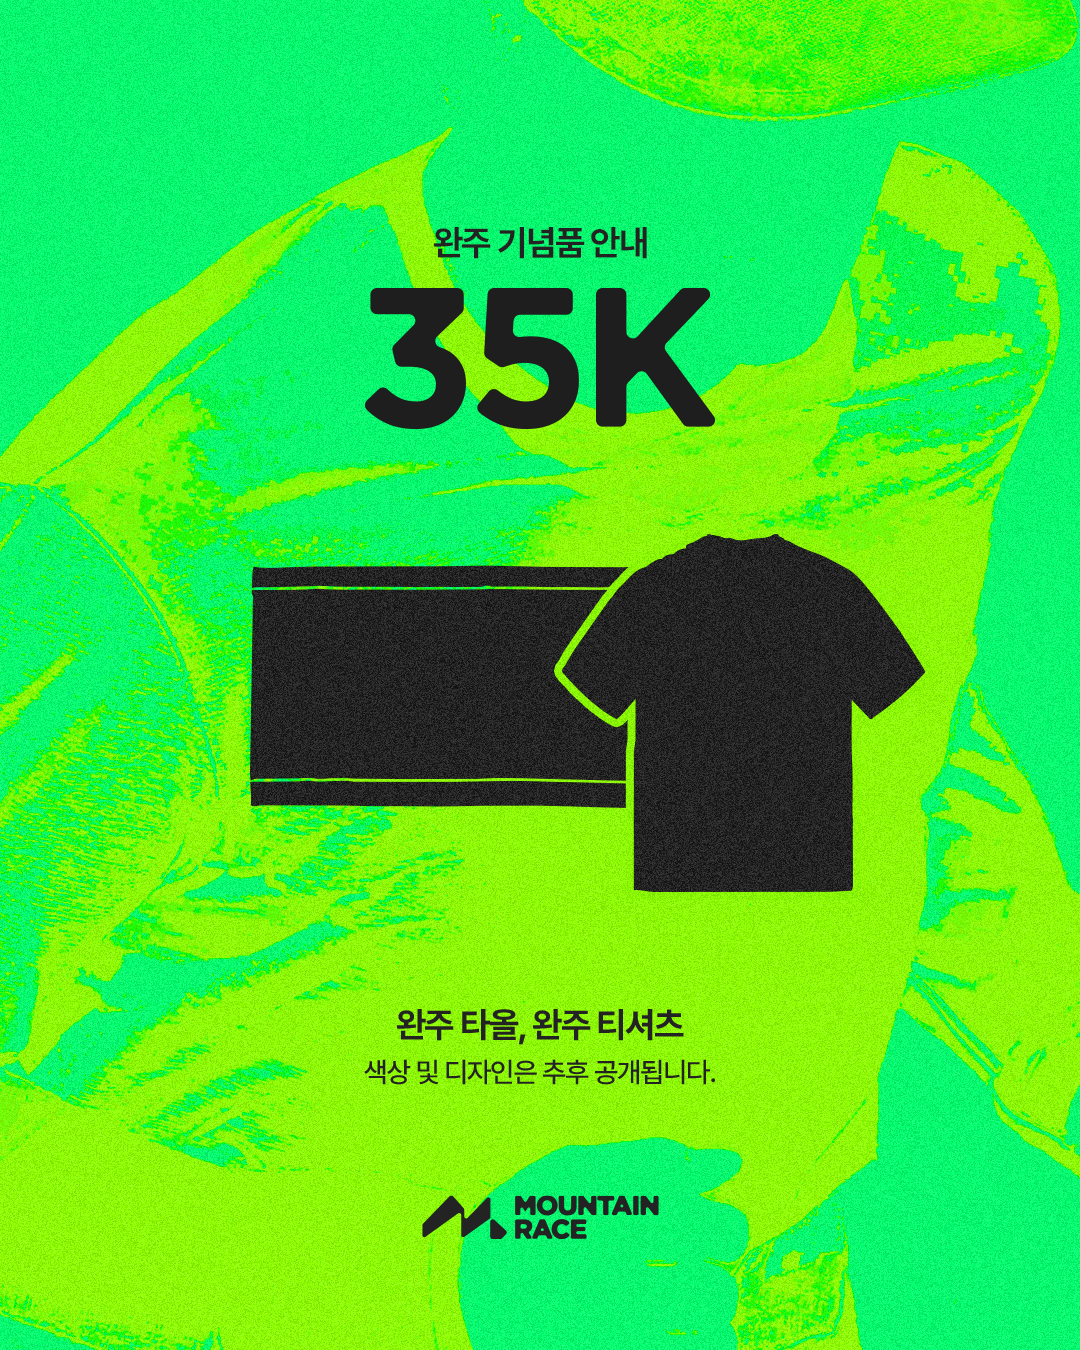
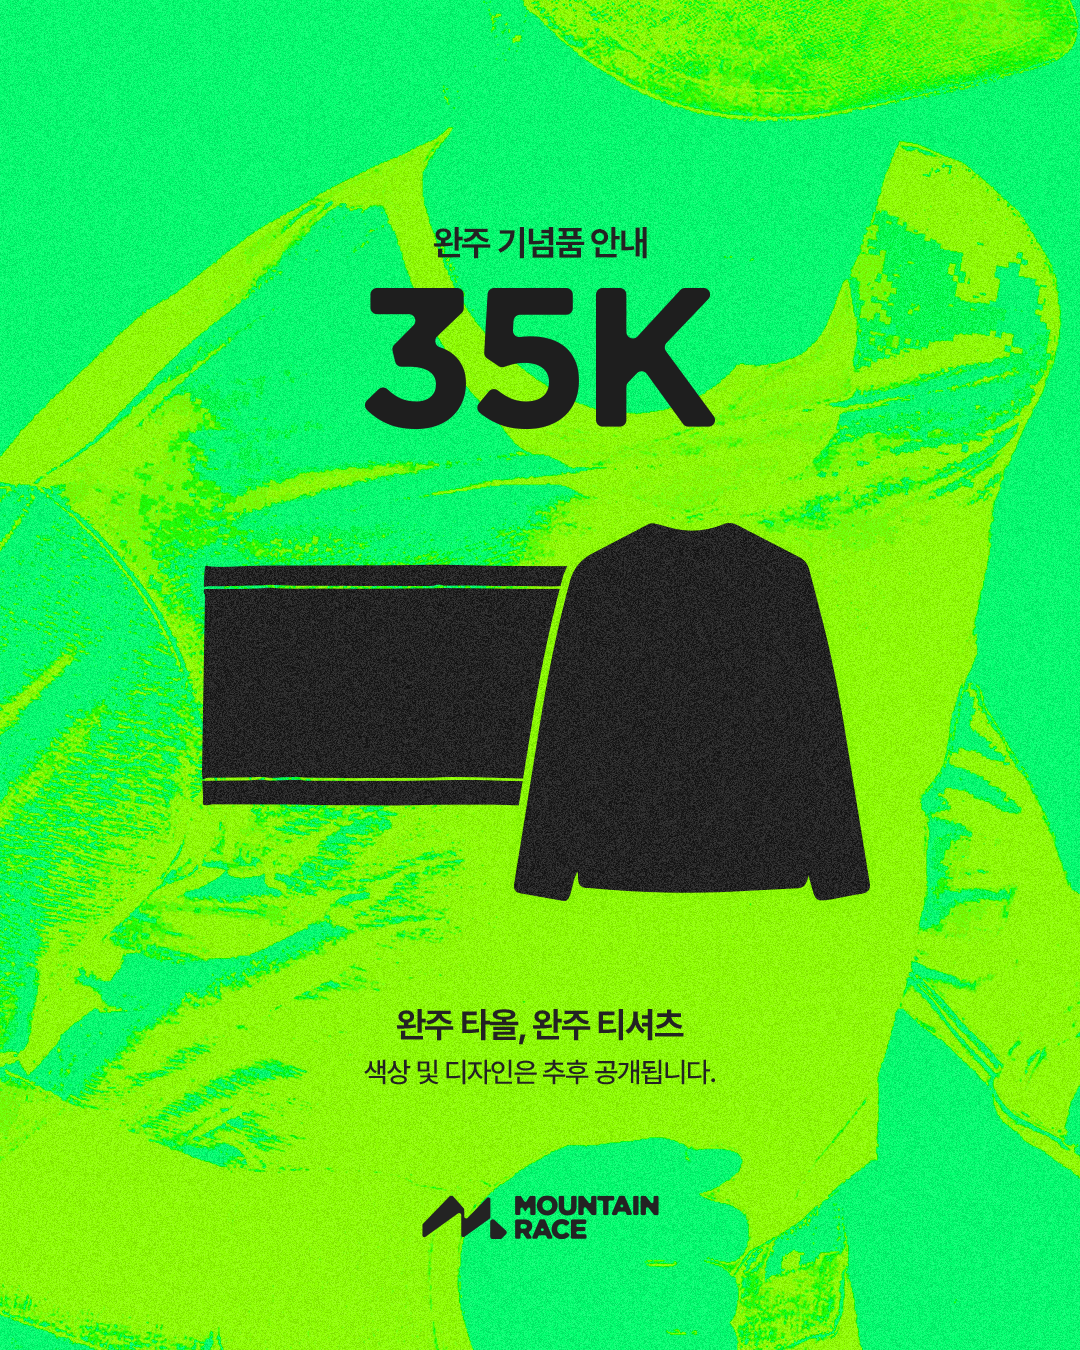
fix: 완주 기념 섹션 이미지 크기 수정

Changed region(s): [[0.1833, 0.3733, 0.8556, 0.6844]]

diff --git a/15k-team.html b/15k-team.html
@@ -1317,20 +1317,19 @@
       </div>
     </div>
 
+    <!-- 완주 기념품 -->
+    <div class="pkg-block" style="margin-top:32px;">
+      <div class="pkg-block-label">완주 기념품</div>
+      <img src="https://miso-kim.github.io/mountainrace/Images/15k-gift.png" alt="15K 완주 기념품" style="width:100%; max-width:400px; height:auto; display:block;">
+    </div>
+
+
     <!-- 완주 메달 -->
     <div class="pkg-block">
       <div class="pkg-block-label">완주 메달</div>
       <div class="pkg-placeholder">
-        <img src="https://cdn.imweb.me/upload/S202602111e47a452310e3/12505bd0f627f.jpg" alt="완주 메달" style="width:100%; height:auto; display:block; max-width:400px;">
+        <img src="https://cdn.imweb.me/upload/S202602111e47a452310e3/12505bd0f627f.jpg" alt="완주 메달" style="width:100%; height:auto; display:block;">
       </div>
-    </div>
-
-    <!-- 완주 기념품 -->
-    <div class="pkg-block" style="margin-top:32px;">
-      <div class="pkg-block-label">완주 기념품</div>
-      <img src="https://miso-kim.github.io/mountainrace/Images/15k-gift.png"
-           alt="15K 완주 기념품"
-           style="width:100%; height:auto; display:block;">
     </div>
   </div>
 </section>

diff --git a/15k.html b/15k.html
@@ -1249,20 +1249,19 @@
       </div>
     </div>
 
+    <!-- 완주 기념품 -->
+    <div class="pkg-block" style="margin-top:32px;">
+      <div class="pkg-block-label">완주 기념품</div>
+      <img src="https://miso-kim.github.io/mountainrace/Images/15k-gift.png" alt="15K 완주 기념품" style="width:100%; max-width:400px; height:auto; display:block;">
+    </div>
+
+
     <!-- 완주 메달 -->
     <div class="pkg-block">
       <div class="pkg-block-label">완주 메달</div>
       <div class="pkg-placeholder">
-        <img src="https://cdn.imweb.me/upload/S202602111e47a452310e3/12505bd0f627f.jpg" alt="완주 메달" style="width:100%; height:auto; display:block; max-width:400px;">
+        <img src="https://cdn.imweb.me/upload/S202602111e47a452310e3/12505bd0f627f.jpg" alt="완주 메달" style="width:100%; height:auto; display:block;">
       </div>
-    </div>
-
-    <!-- 완주 기념품 -->
-    <div class="pkg-block" style="margin-top:32px;">
-      <div class="pkg-block-label">완주 기념품</div>
-      <img src="https://miso-kim.github.io/mountainrace/Images/15k-gift.png"
-           alt="15K 완주 기념품"
-           style="width:100%; height:auto; display:block;">
     </div>
   </div>
 </section>

diff --git a/35k.html b/35k.html
@@ -1228,20 +1228,19 @@
       </div>
     </div>
 
+    <!-- 완주 기념품 -->
+    <div class="pkg-block" style="margin-top:32px;">
+      <div class="pkg-block-label">완주 기념품</div>
+      <img src="https://miso-kim.github.io/mountainrace/Images/35k-gift.png" alt="35K 완주 기념품" style="width:100%; max-width:400px; height:auto; display:block;">
+    </div>
+
+
     <!-- 완주 메달 -->
     <div class="pkg-block">
       <div class="pkg-block-label">완주 메달</div>
       <div class="pkg-placeholder">
-        <img src="https://cdn.imweb.me/upload/S202602111e47a452310e3/12505bd0f627f.jpg" alt="완주 메달" style="width:100%; height:auto; display:block; max-width:400px;">
+        <img src="https://cdn.imweb.me/upload/S202602111e47a452310e3/12505bd0f627f.jpg" alt="완주 메달" style="width:100%; height:auto; display:block;">
       </div>
-    </div>
-
-    <!-- 완주 기념품 -->
-    <div class="pkg-block" style="margin-top:32px;">
-      <div class="pkg-block-label">완주 기념품</div>
-      <img src="https://miso-kim.github.io/mountainrace/Images/35k-gift.png"
-           alt="35K 완주 기념품"
-           style="width:100%; height:auto; display:block;">
     </div>
   </div>
 </section>
